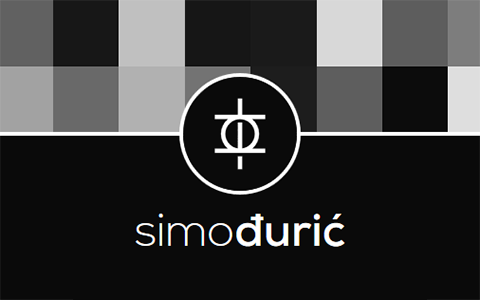
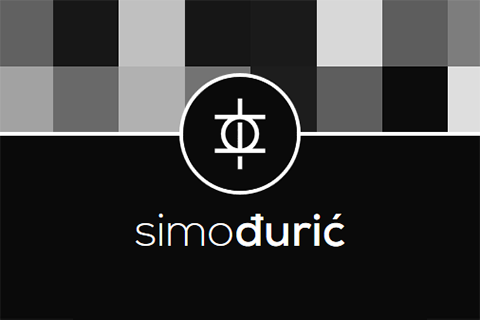
Minor fixes
Changed the box table alignment to center.

diff --git a/css/style.css b/css/style.css
@@ -118,29 +118,22 @@ a:active {
 
 .header-wrap {
 	position: relative;
-	float: left;
-	clear: both;
+	text-align: center;
+	overflow: hidden;
 	width: 100%;
 	height: 33.33vh;
 	background-color: #0A0A0A;
 	transition: all 0.2s ease-in-out;
+	border-bottom: 4px solid #fff;
 }
-@media only screen and (min-width: 1024px) {
-  .header-wrap {
-    position: fixed;
-    top: 0;
-    left: 0;
-    right: 0;
-  }
-}
+
 
 .divTable{
 	display: table;
-	position: fixed;
-	left: 0;
-	top: 0;
+	position: absolute;
+	margin-left: 50%;
+	transform: translateX(-50%);
 	width: 220vh;
-	border-bottom: 4px solid #fff;
 }
 .divTableRow {
 	display: table-row;
